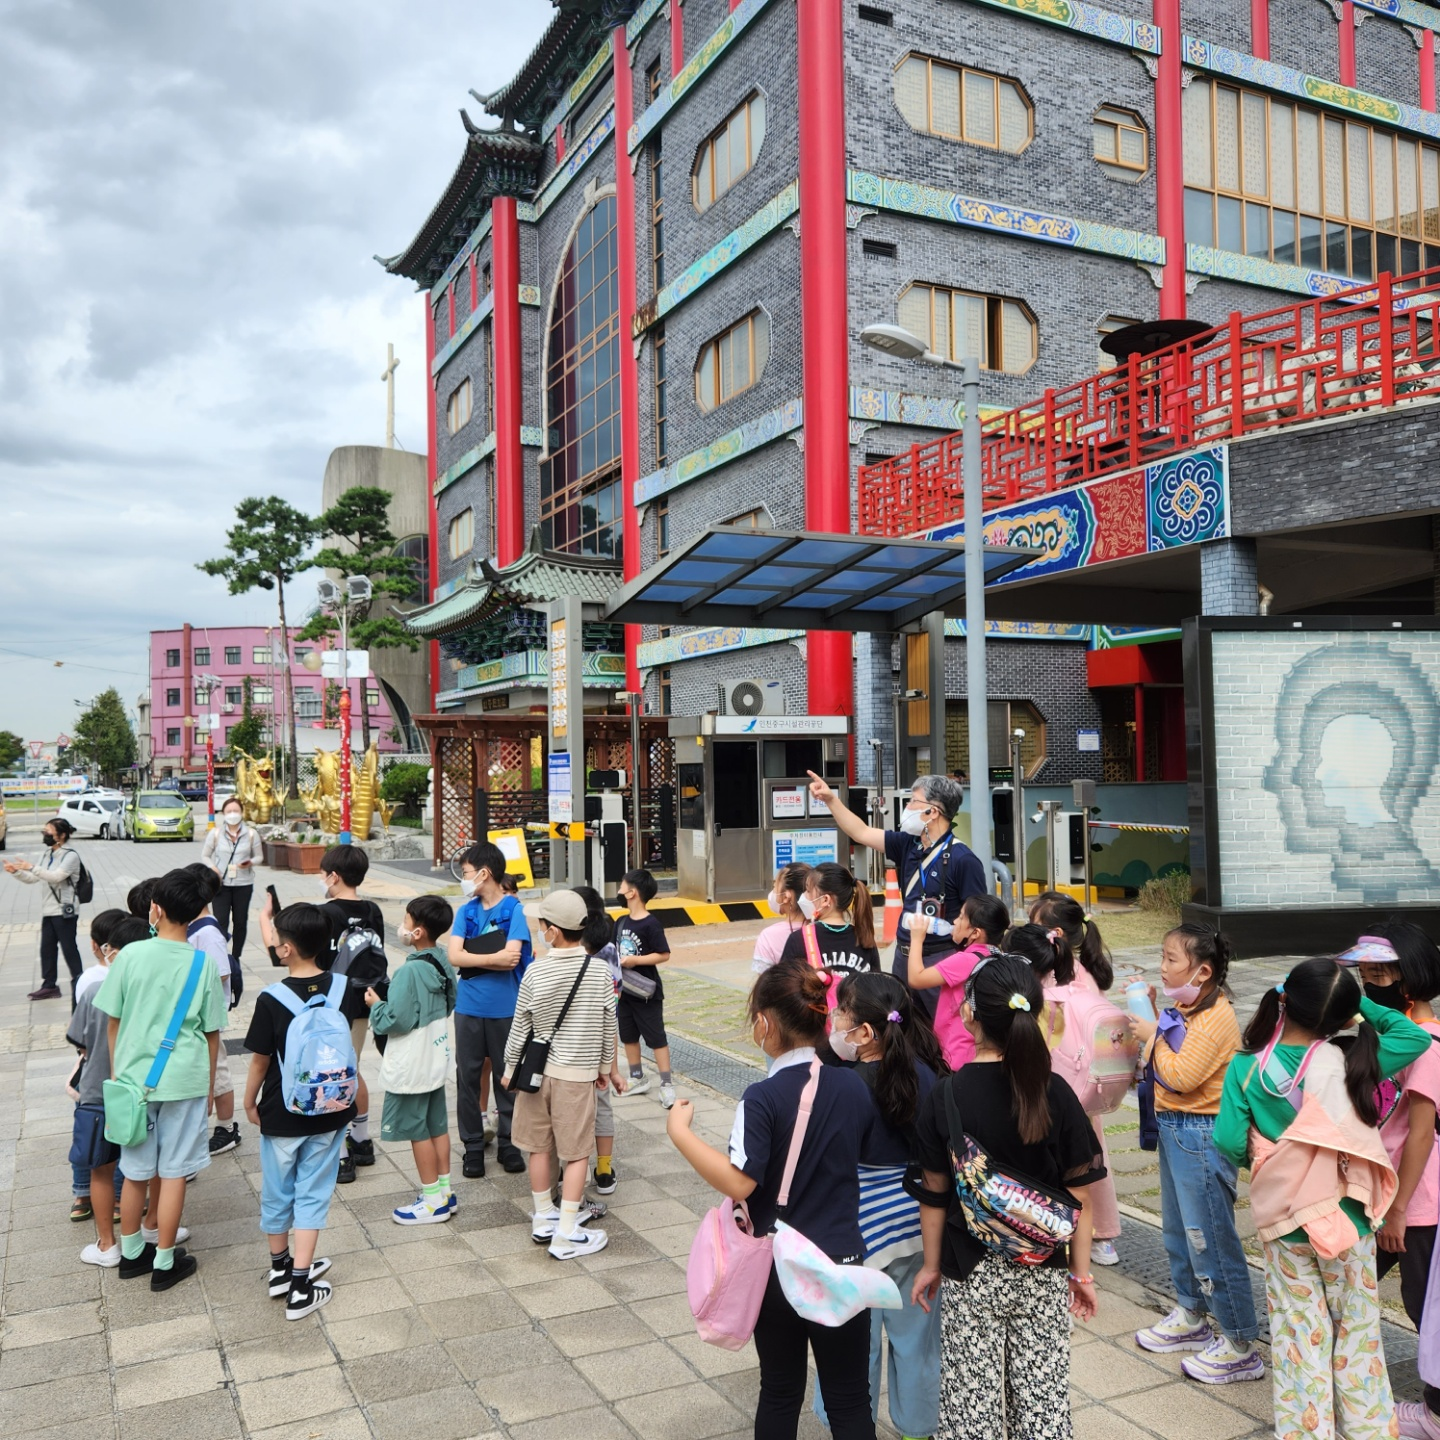
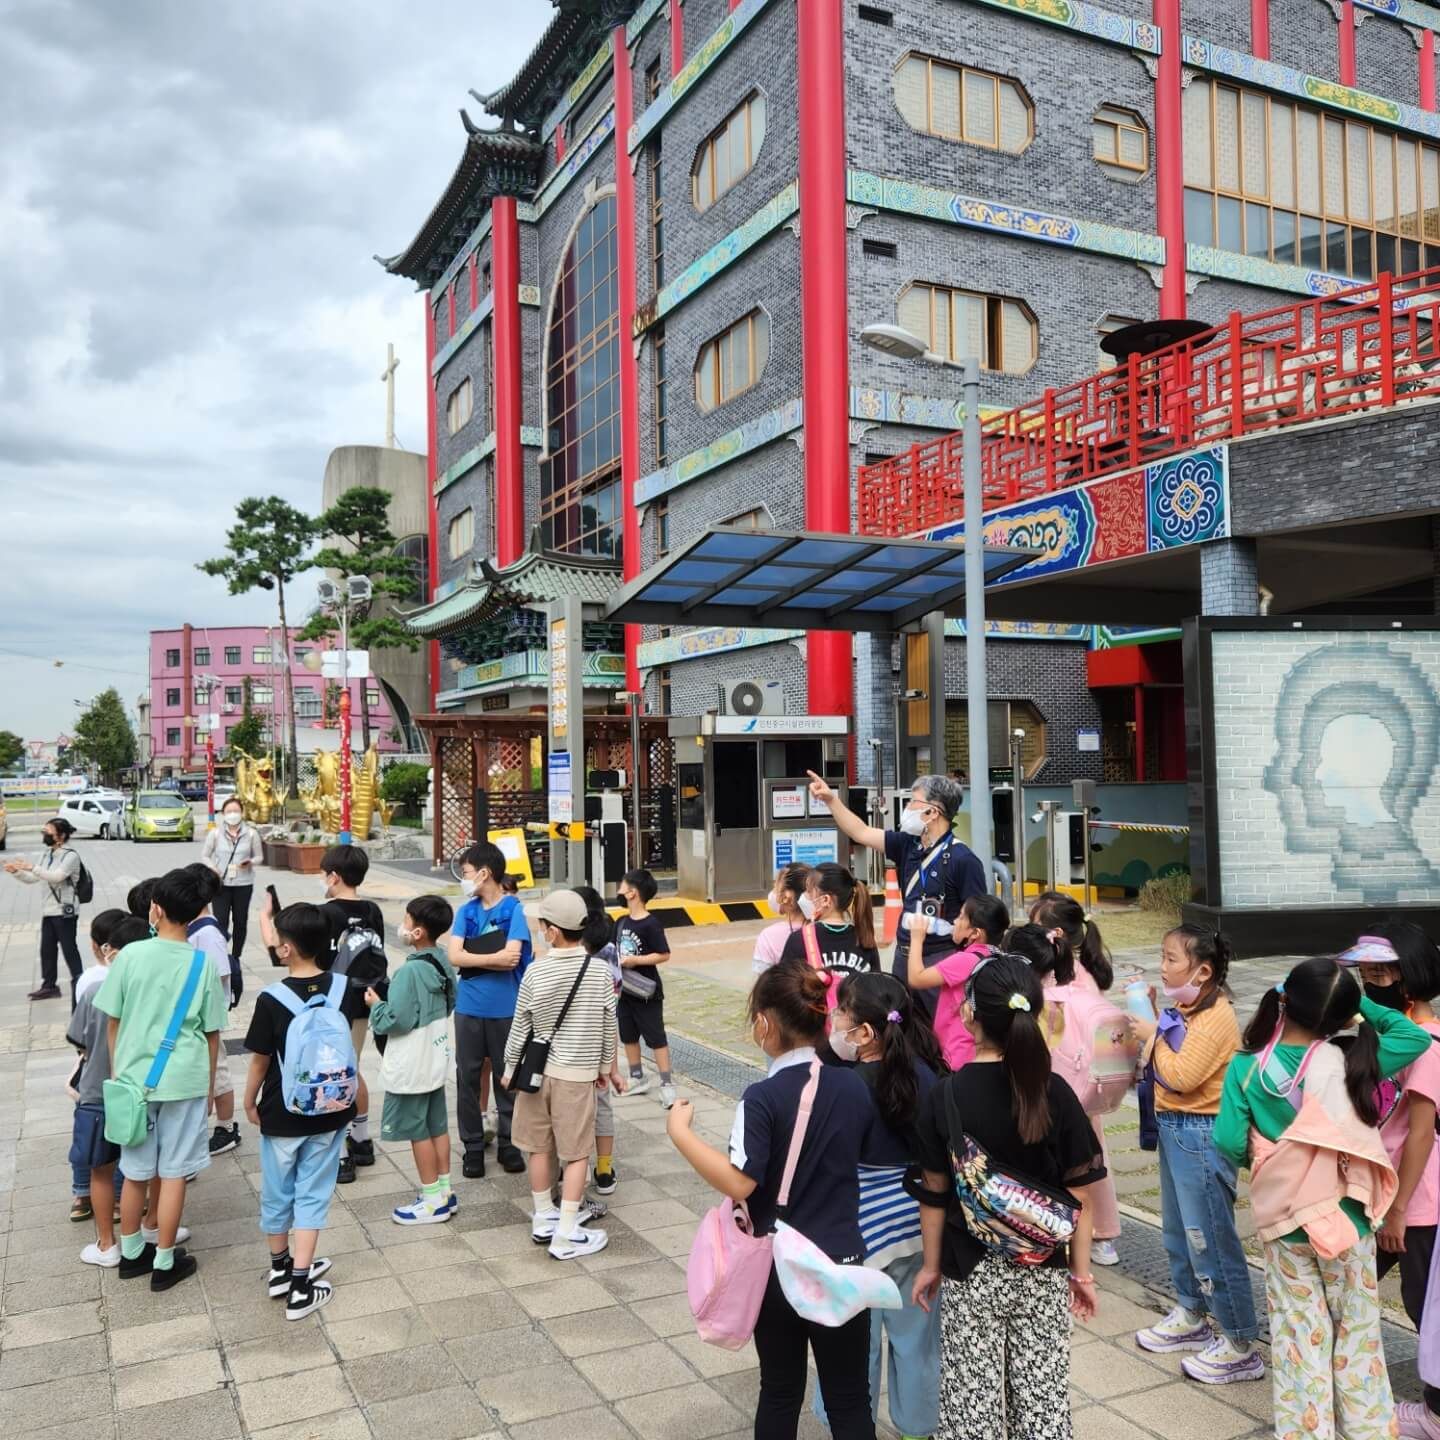
20230228 구석구석탐방, 마을교육활동가 이미지 용량 줄여서 수정

Changed region(s): [[0.8125, 0.3125, 0.8438, 0.375]]

diff --git a/assets/front/css/yg.css b/assets/front/css/yg.css
@@ -1489,6 +1489,10 @@ a {
   background-size: contain !important;
 }
 
+.footer__nav ul li:nth-of-type(1) a {
+  font-weight: 400 !important;
+}
+
 @media all and (max-width: 1400px) {
   html {
     font-size: 0.875rem;

diff --git a/assets/front/scss/yg.scss b/assets/front/scss/yg.scss
@@ -1540,6 +1540,9 @@
 	background-size: contain !important;
 }
 
+.footer__nav ul li:nth-of-type(1) a {
+	font-weight: 400 !important;
+}
 // 미디어 쿼리
 @include media($web) {
 	html {
